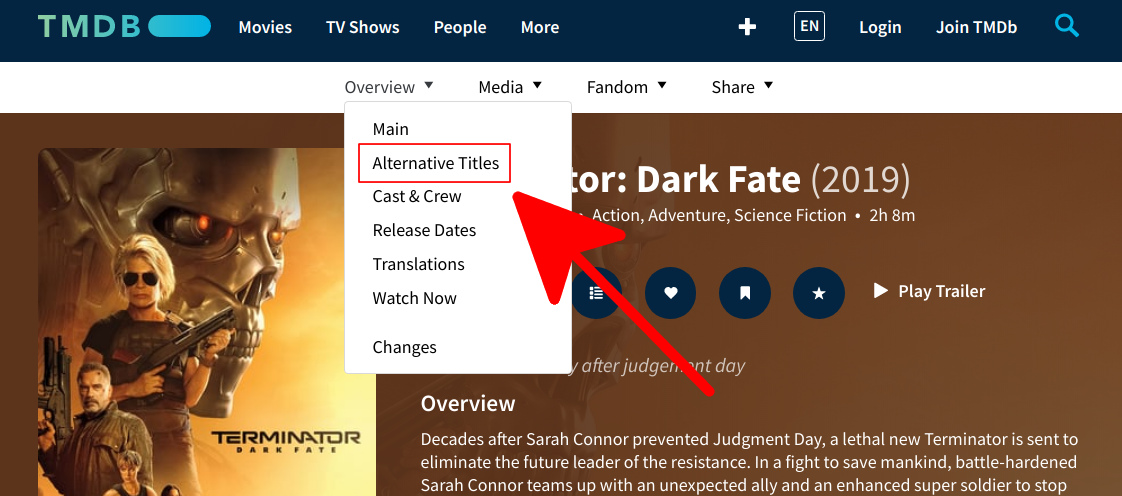
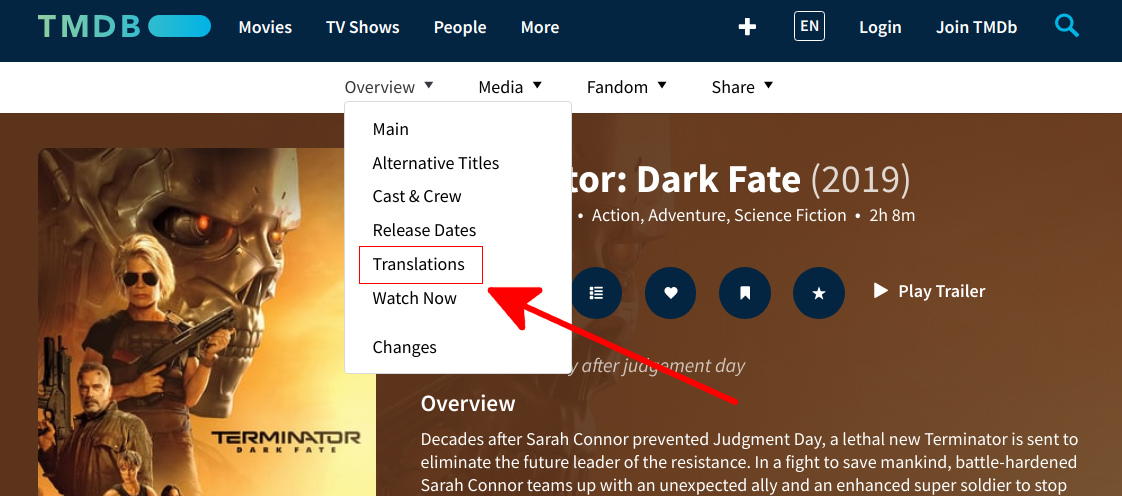
How fanart.tv works r2

Changed region(s): [[0.3119, 0.3629, 0.6551, 0.8165], [0.3119, 0.2722, 0.4367, 0.3024]]

diff --git a/docs/General/fanart database.md b/docs/General/fanart database.md
@@ -30,7 +30,7 @@ Use the menu on the right to go directly to a section of interest, or just start
 
 The glue that makes all this work is the __ID#__ used by each database. 
 
-If you can find the entry[^1] on the site where we get the information from, you can use their ID on _our_ site to go to that entry, or add the entry if missing. Hover over the images for each of the databases below to recognize where to find the source ID, and where the same ID is on our site. 
+If you can find the entry[^1] on the site where we get the information from, you can use their ID on _our_ site to go directly to that entry, or [add the entry](#add-missing-entries "Add missing entries") if missing. Hover over the images for each of the databases below to recognize where to find the source ID, and where the same ID is on our site. 
 
 
 === "TheMovieDB #__290859__"
@@ -51,7 +51,7 @@ If you can find the entry[^1] on the site where we get the information from, you
 
   If an item has not been added to our database yet, you can add it yourself using one of the following methods.
 
-  1. You can enter the ID in the Search Results page for the proper section
+  1. You can enter the ID in the Search Results page for the proper section.
 
   1. You can edit the URL directly to enter the ID from the source. _(see the pro tip below)_
 
@@ -71,10 +71,10 @@ If you can find the entry[^1] on the site where we get the information from, you
 
 ???+ info 
 
-    _Entering an ID that already exists, just takes you to that entry. If you are not comfortable editing URLs, you can use this method to navigate to that entry if you have the source ID._
+    _Entering an ID that already exists, just takes you to that entry. If you are not comfortable editing URLs, you can use this method to navigate directly to the entry._
 
 ??? tip "Pro Tip"
-    Anything after the ID# in the URL can safely be ignored if you want to edit the URL directly.
+    Anything after the ID# in the URL can safely be ignored.
 
     __Example:__
 
@@ -86,7 +86,7 @@ If you can find the entry[^1] on the site where we get the information from, you
 
 ## __Why any of this matters__
 
-These source databases do not sync with our database whenever they make a change, so entries can become duplicated, orphaned, erased, merged, etc...
+These [source databases](#the-databases-we-source-from "The databases we source from") do not sync with our database whenever they make a change, so entries can become duplicated, orphaned, erased, merged, etc...
 
 Here is a list of some of the issues you may encounter, and how to fix them. 
 
@@ -97,48 +97,52 @@ Here is a list of some of the issues you may encounter, and how to fix them.
 
     This can mean many things including miss-typing the title, entering the wrong title, searching in the wrong language, or it hasn't been added to our database yet.
 
-    The fix is to always locate the title at the [source](#finding-the-right-entry), and [enter that ID](#add-missing-entries) on our site.
+    The fix is to always [locate the title at the source](#finding-the-right-entry "Finding the right entry"), and [enter that ID](#add-missing-entries "Add missing entries") on our site.
 
 
 ??? warning "Wrong Title"
 
     __Entry is listed with the wrong title even though the ID# is correct.__
 
-    This means the official title was changed ^^after^^ the entry was created on our site. This is a very easy fix. Just ask to have the entry [refreshed](#request-a-refresh) on [Discord](https://discord.gg/r9VufRk){target= blank} in the __#issues__ channel.
-
-    Please paste a link to the entry you would like refreshed when making the request.
+    This means the official title was changed ^^after^^ the entry was created on our site. This is a very easy fix. Just ask to have the entry [refreshed](#request-a-refresh "Request a refresh") on [Discord](https://discord.gg/r9VufRk "Fanart.tv Discord server"){target= blank} in the __#issues__ channel.
 
 ??? warning "No English title set"
 
     ??? info "The MovieDB"
 
-        This usually means the movie was never released in the U.S. and doesn't have and English title set. 
+        This usually means the movie was never released in the U.S. and doesn't have an English title set. 
 
-        1. First verify if an English title has already been set but hasn't been refreshed on our site. _(see image below)_
+        1. First verify if an English title has already been set but hasn't been [refreshed](#request-a-refresh "Request a refresh") on our site. _(see image below)_
 
-        2. If not, the next step is to check [IMDB](http://www.imdb.com/){target= blank} for an English alias. You need to look down the page and find the heading named ^^Details^^. Under that heading you will see a line named ^^Also Known As^^ _(AKA)_. Expand that heading and check for an _English_ or _World-wide_ title. This is what you will enter on TheMovieDB by editing the ^^Alternative Titles^^ Section.
+        1. If not, the next step is to check [IMDB](http://www.imdb.com/){target= blank} for an English alias. You need to look down the page and find the heading named ^^Details^^. Under that heading you will see a line named ^^Also Known As^^ _(AKA)_. Expand that heading and check for an _English_ or _World-wide_ title. 
+
+        1. The title you find on IMDB, _(if any)_ is what you will enter on TheMovieDB by editing the ^^Translations^^ Section.
 
         ![Search ID](../assets/images/hftvw-tmdb-aka.jpg)
 
-        - Wait 48 hours after making any edits before requesting the entry be [refreshed](#request-a-refresh) on our site.
+        - Wait 48 hours after making any edits before requesting the entry be [refreshed](#request-a-refresh "Request a refresh") on our site.
 
     ??? info "The TVDB"    
 
-        This usually means that the show was not originally released in the U.S. and needs an English title added to the entry. Follow the directions on [this page](https://support.thetvdb.com/kb/faq.php?id=23){target= blank} to source an English title.
+        This usually means the show was never released in the U.S. and doesn't have an English title set. 
 
-        Once you have an English title, open up the show’s page and locate the ^^Toolbox^^ and select the menu item on the right side of the page. _(must be logged in in to see it)_ 
+        1. First verify if an English title has already been set but hasn't been [refreshed](#request-a-refresh "Request a refresh") on our site. _(see image below)_
 
-        There you will find a button for ^^Edit Translations^^. Just add the proper information for the English Title and Plot as per [thetvdb rules](https://support.thetvdb.com/kb/index.php){target= blank}.
+        1. Follow the directions on [this page](https://support.thetvdb.com/kb/faq.php?id=23 "TV Sources of Truth"){target= blank} to source an English title.
+
+        1. The title you find , _(if any)_ is what you will enter on TheTVDB by [editing](https://support.thetvdb.com/kb/faq.php?id=32 "Editing Unlocked Series"){target= blank} the ^^Edit Translations^^ Section. _(must be logged in in to see it)_ 
 
         ![tvdb edit ](../assets/images/hftvw-tvdb-edit.jpg)
 
-          - Sometimes the series will be locked because of rampant vandalism in the past. To have a title changed that has been locked you will need to [make a request](https://support.thetvdb.com/kb/faq.php?id=33){target= blank}
+          - Sometimes the series will be locked for various reasons. To have a title changed for a locked series you will need to [make a request](https://support.thetvdb.com/kb/faq.php?id=33 "Requesting Changes to Locked/Certified Series"){target= blank}
 
-          - Wait 48 hours after making any edits before requesting the entry be [refreshed](#request-a-refresh) on our site.
+          - Wait 48 hours after making any edits before requesting the entry be [refreshed](#request-a-refresh "Request a refresh") on our site.
 
 ??? warning "Duplicate Entries"
 
-    So you did a search for “A Million Little Things” on our site and you find duplicate entries. The first thing to note is the ID for each entry. This can be found in most browsers by just hovering over each link.
+    So you did a search for “A Million Little Things” on our site and you find duplicate entries. 
+
+    The first thing to note is the ID for each entry. This can be found in most browsers by just hovering over each link.
 
     ![Hover ID](../assets/images/hftvw-show-id-in-url-hover.jpg)
     
@@ -158,7 +162,7 @@ Here is a list of some of the issues you may encounter, and how to fix them.
 
     - You will also want to check the artwork in the duplicate entry so you won't have your [images denied](#proper-way-to-make-submissions) when they are eventually merged.
 
-    - The process is basically the same for Movies and Music entries. You can ask for help on [Discord](https://discord.gg/r9VufRk){target= blank} in the __#help-requests__ channel if you are having trouble.
+    - The process is basically the same for Movies and Music entries. You can ask for help on [Discord](https://discord.gg/r9VufRk "Fanart.tv Discord server){target= blank} in the __#help-requests__ channel if you are having trouble.
 
 ---
 
@@ -173,7 +177,7 @@ If you do not want to risk having your perfectly good artwork denied later on be
       - Try using our search for similar titles. Use broad search terms and scan the results for any possible matches.
 
   1. __Report any issues found__
-      - Please notify a moderator when you find any issues on [Discord](https://discord.gg/r9VufRk){target= blank} in the __#issues__ channel
+      - Please notify a moderator when you find any issues on [Discord](https://discord.gg/r9VufRk "Fanart.tv Discord server"){target= blank} in the __#issues__ channel
 
 ---
 
@@ -181,7 +185,7 @@ If you do not want to risk having your perfectly good artwork denied later on be
 
   The sites we source our information from are constantly updating their own information. When they change something in their databases, it doesn’t get propagated to our own site unless we make a new request for that information. _(ie.. refresh our info)_ 
 
-  The preferred way to request a refresh is to ask on [Discord](https://discord.gg/r9VufRk){target= blank} in the __#issues__ channel.
+  The preferred way to request a refresh is to ask on [Discord](https://discord.gg/r9VufRk "Fanart.tv Discord server){target= blank} in the __#issues__ channel.
 
   You can also use the [Housekeeping](https://forum.fanart.tv/viewforum.php?f=31){target= blank} section of the [forums](https://forum.fanart.tv/index.php){target= blank} if you prefer.
 
